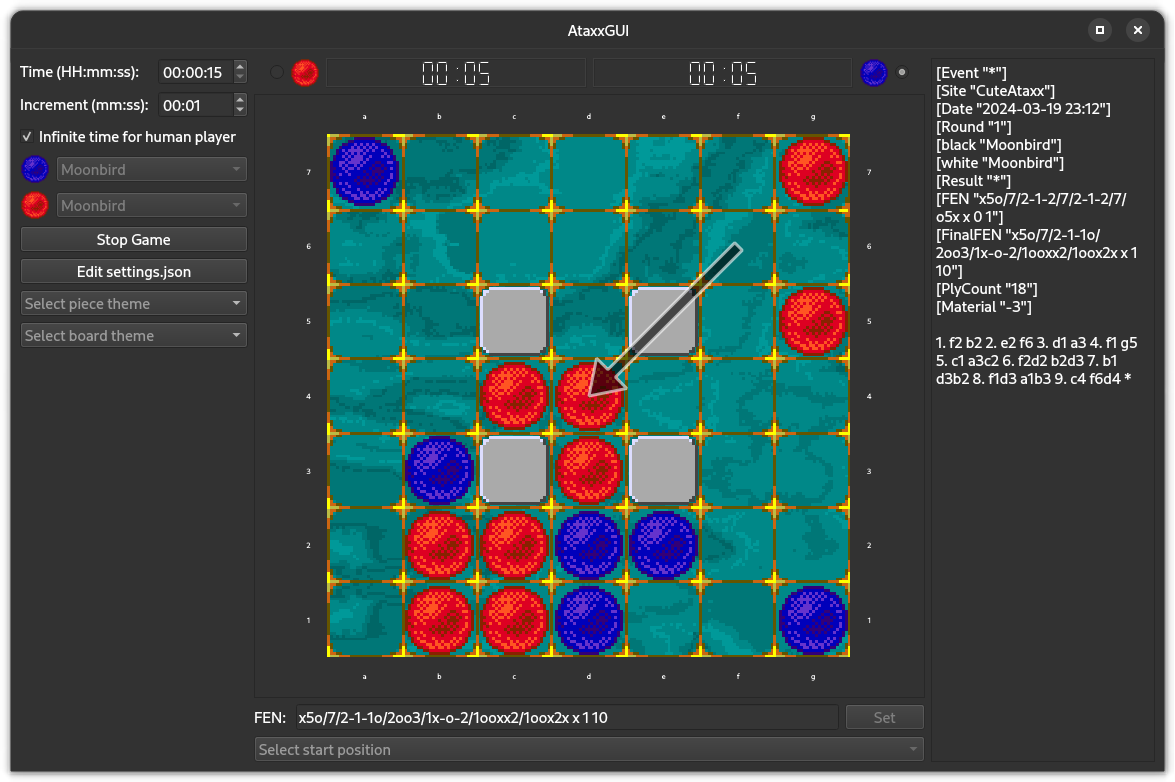
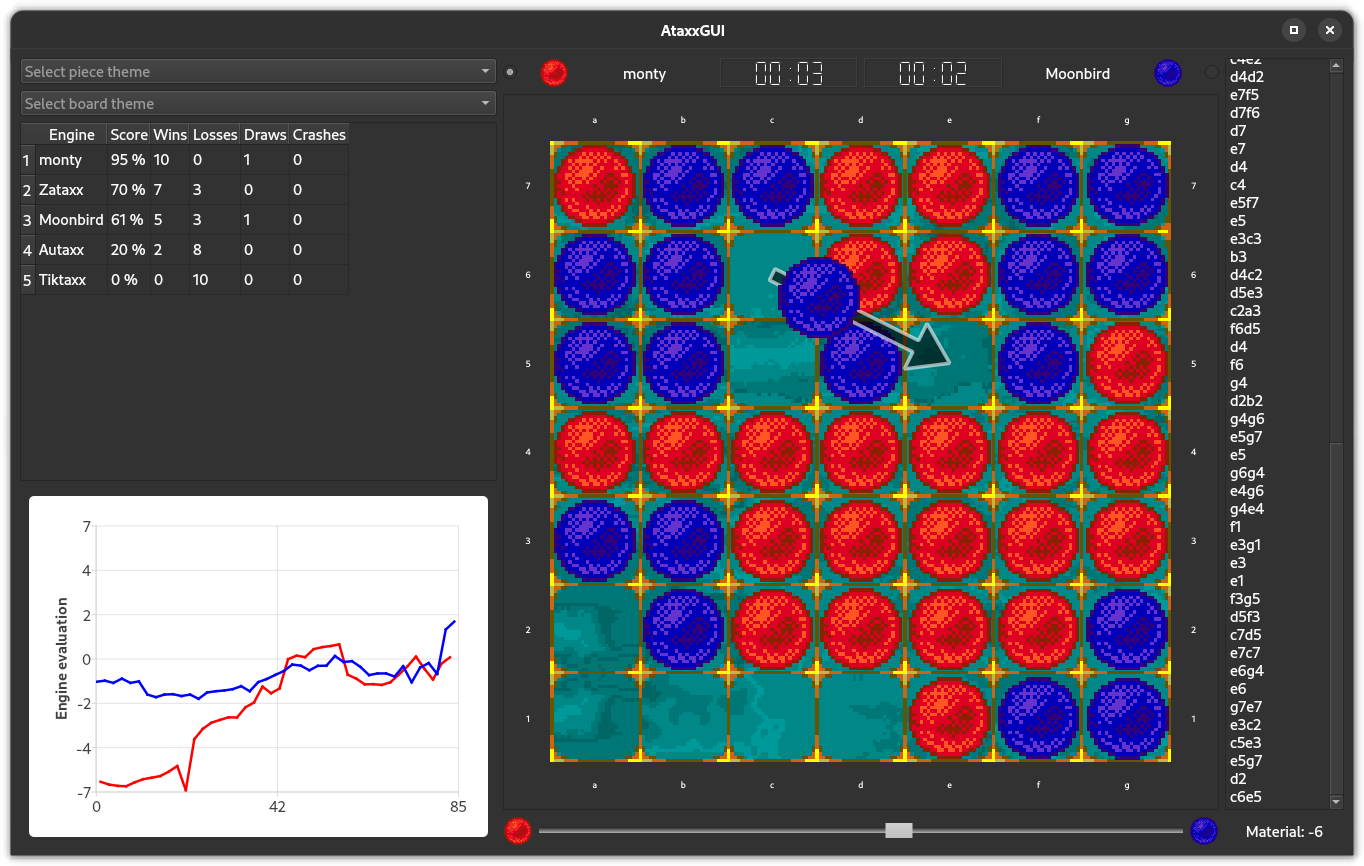
Updated README.md

diff --git a/README.md b/README.md
@@ -1,6 +1,6 @@
 <div align="center">
 <p><h1>AtaxxGUI</h1>
-<i><h4>A graphical user interface for playing Ataxx between engines and humans</h4></i>
+<i><h4>A GUI for showing Ataxx tournaments between engines</h4></i>
 <img src="./screenshot.png" width="640px">
 </h1>
 </div>
